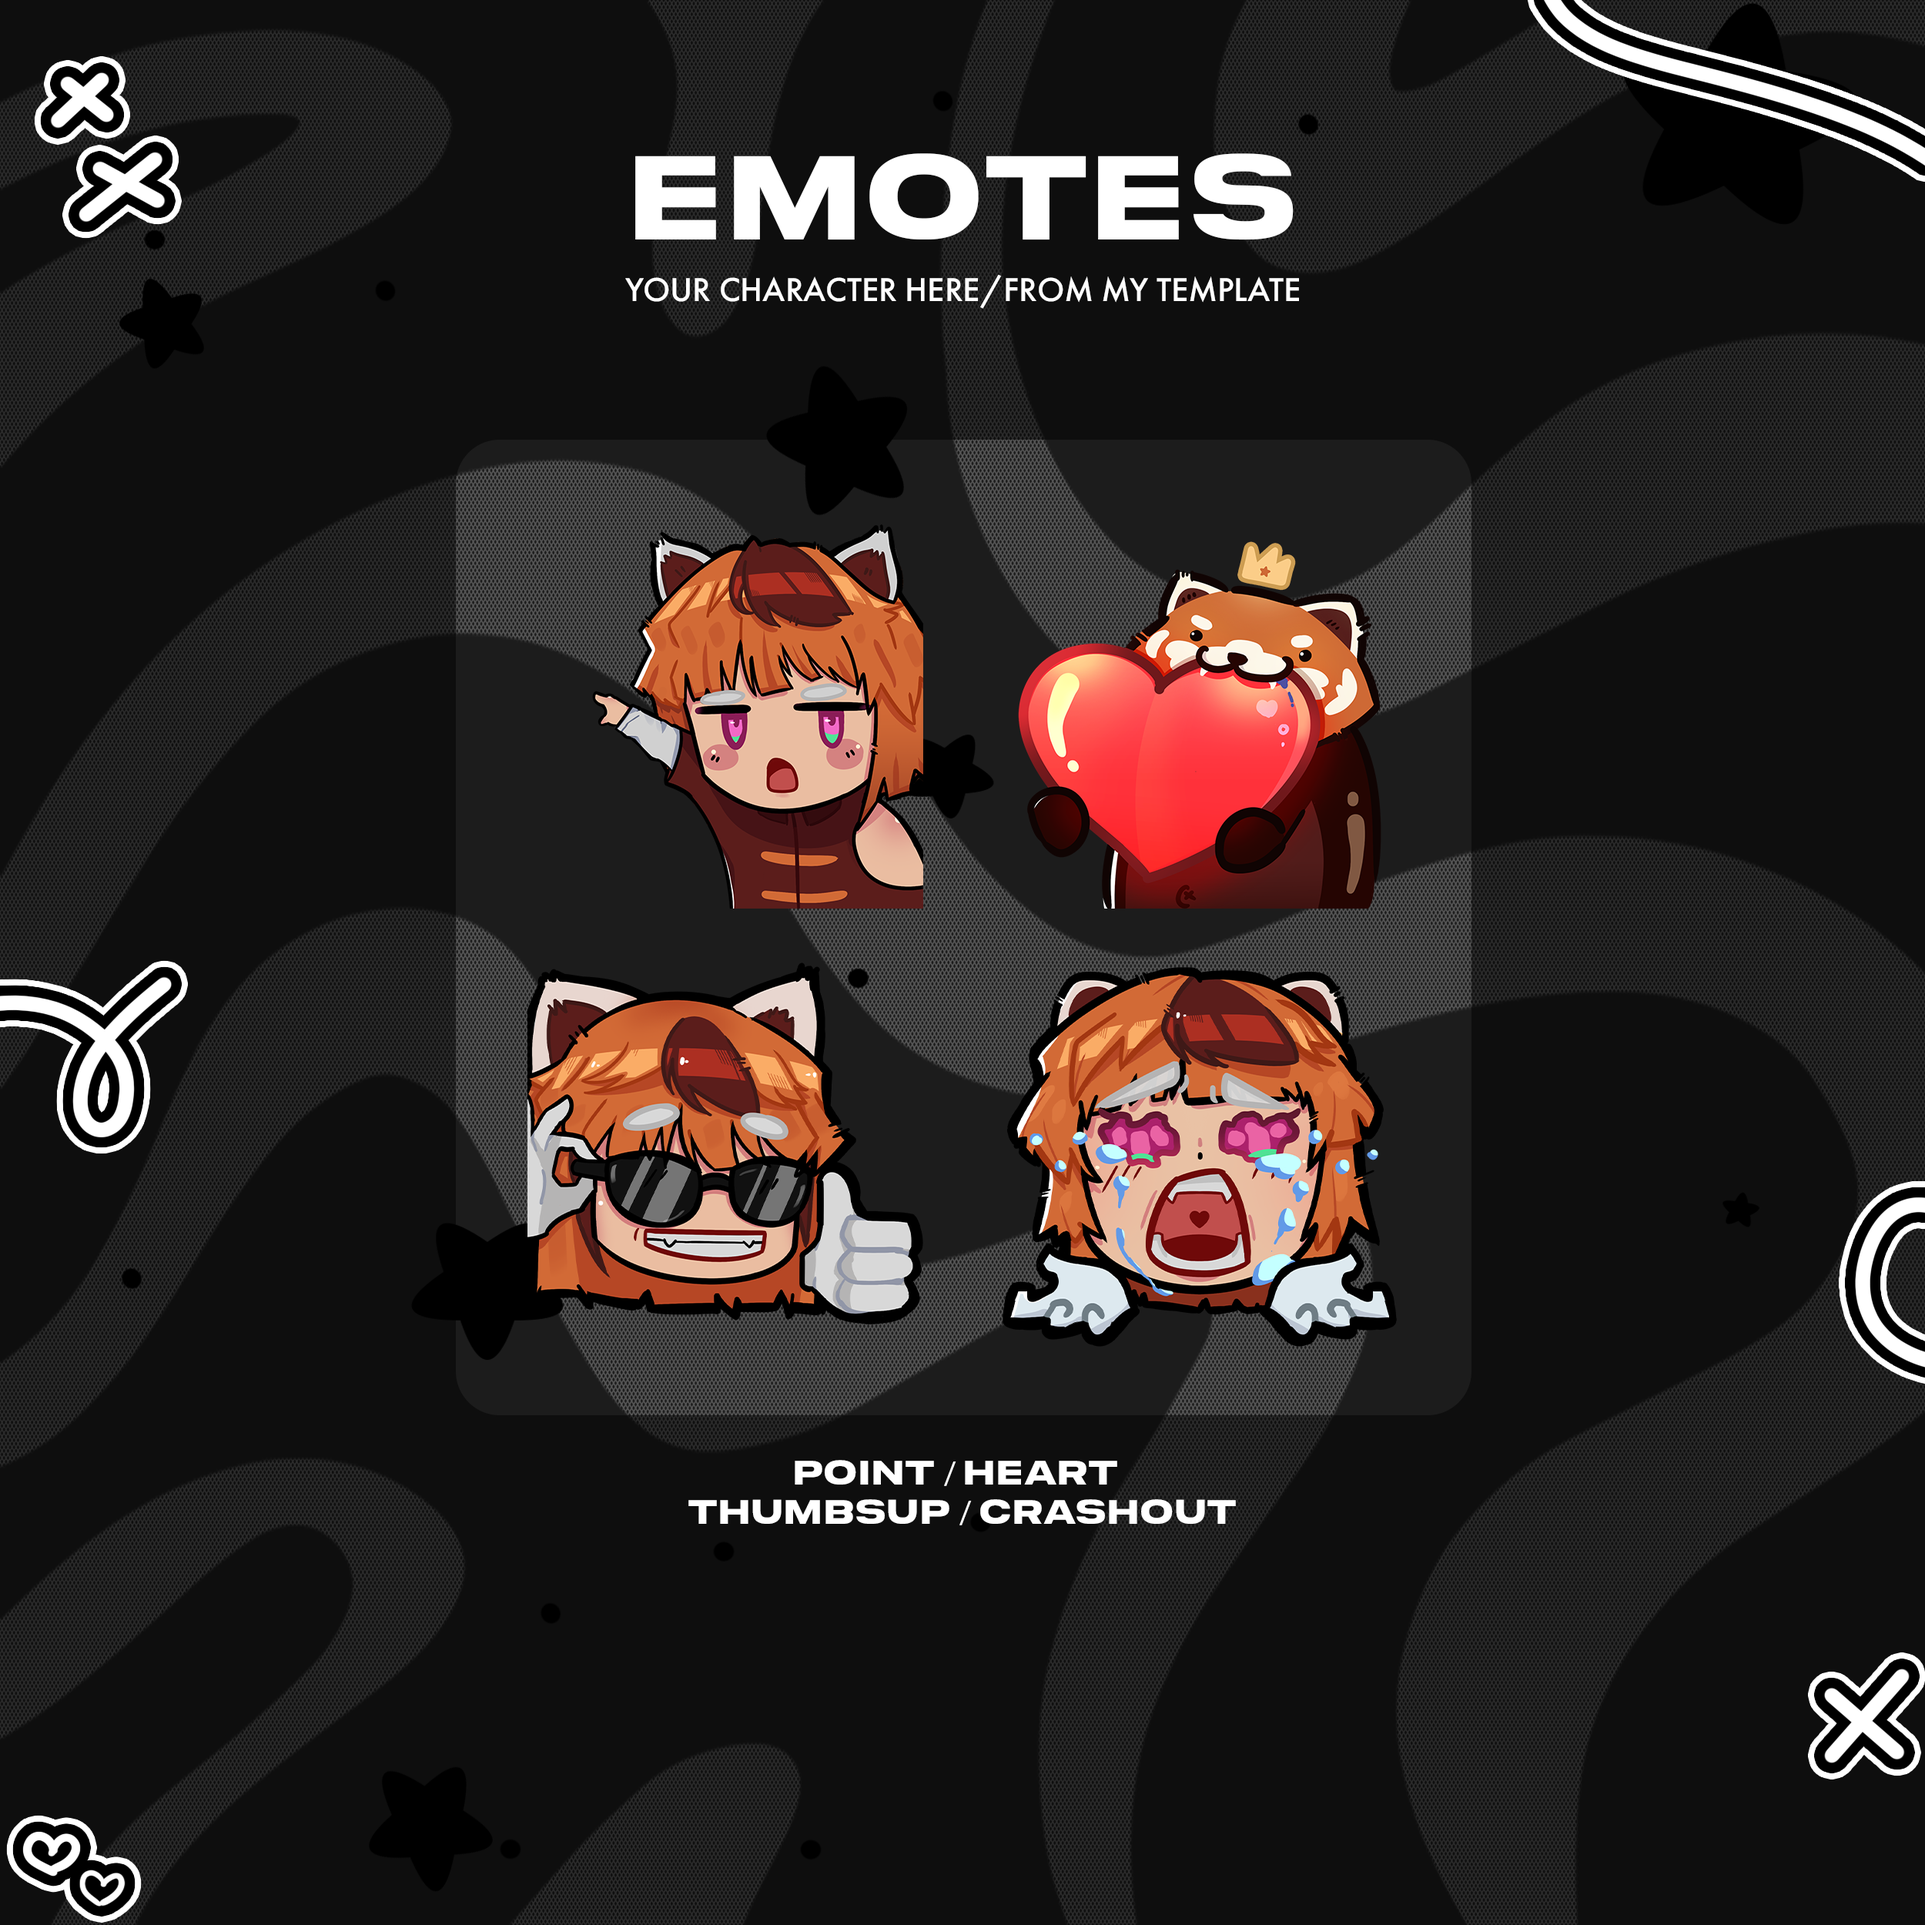
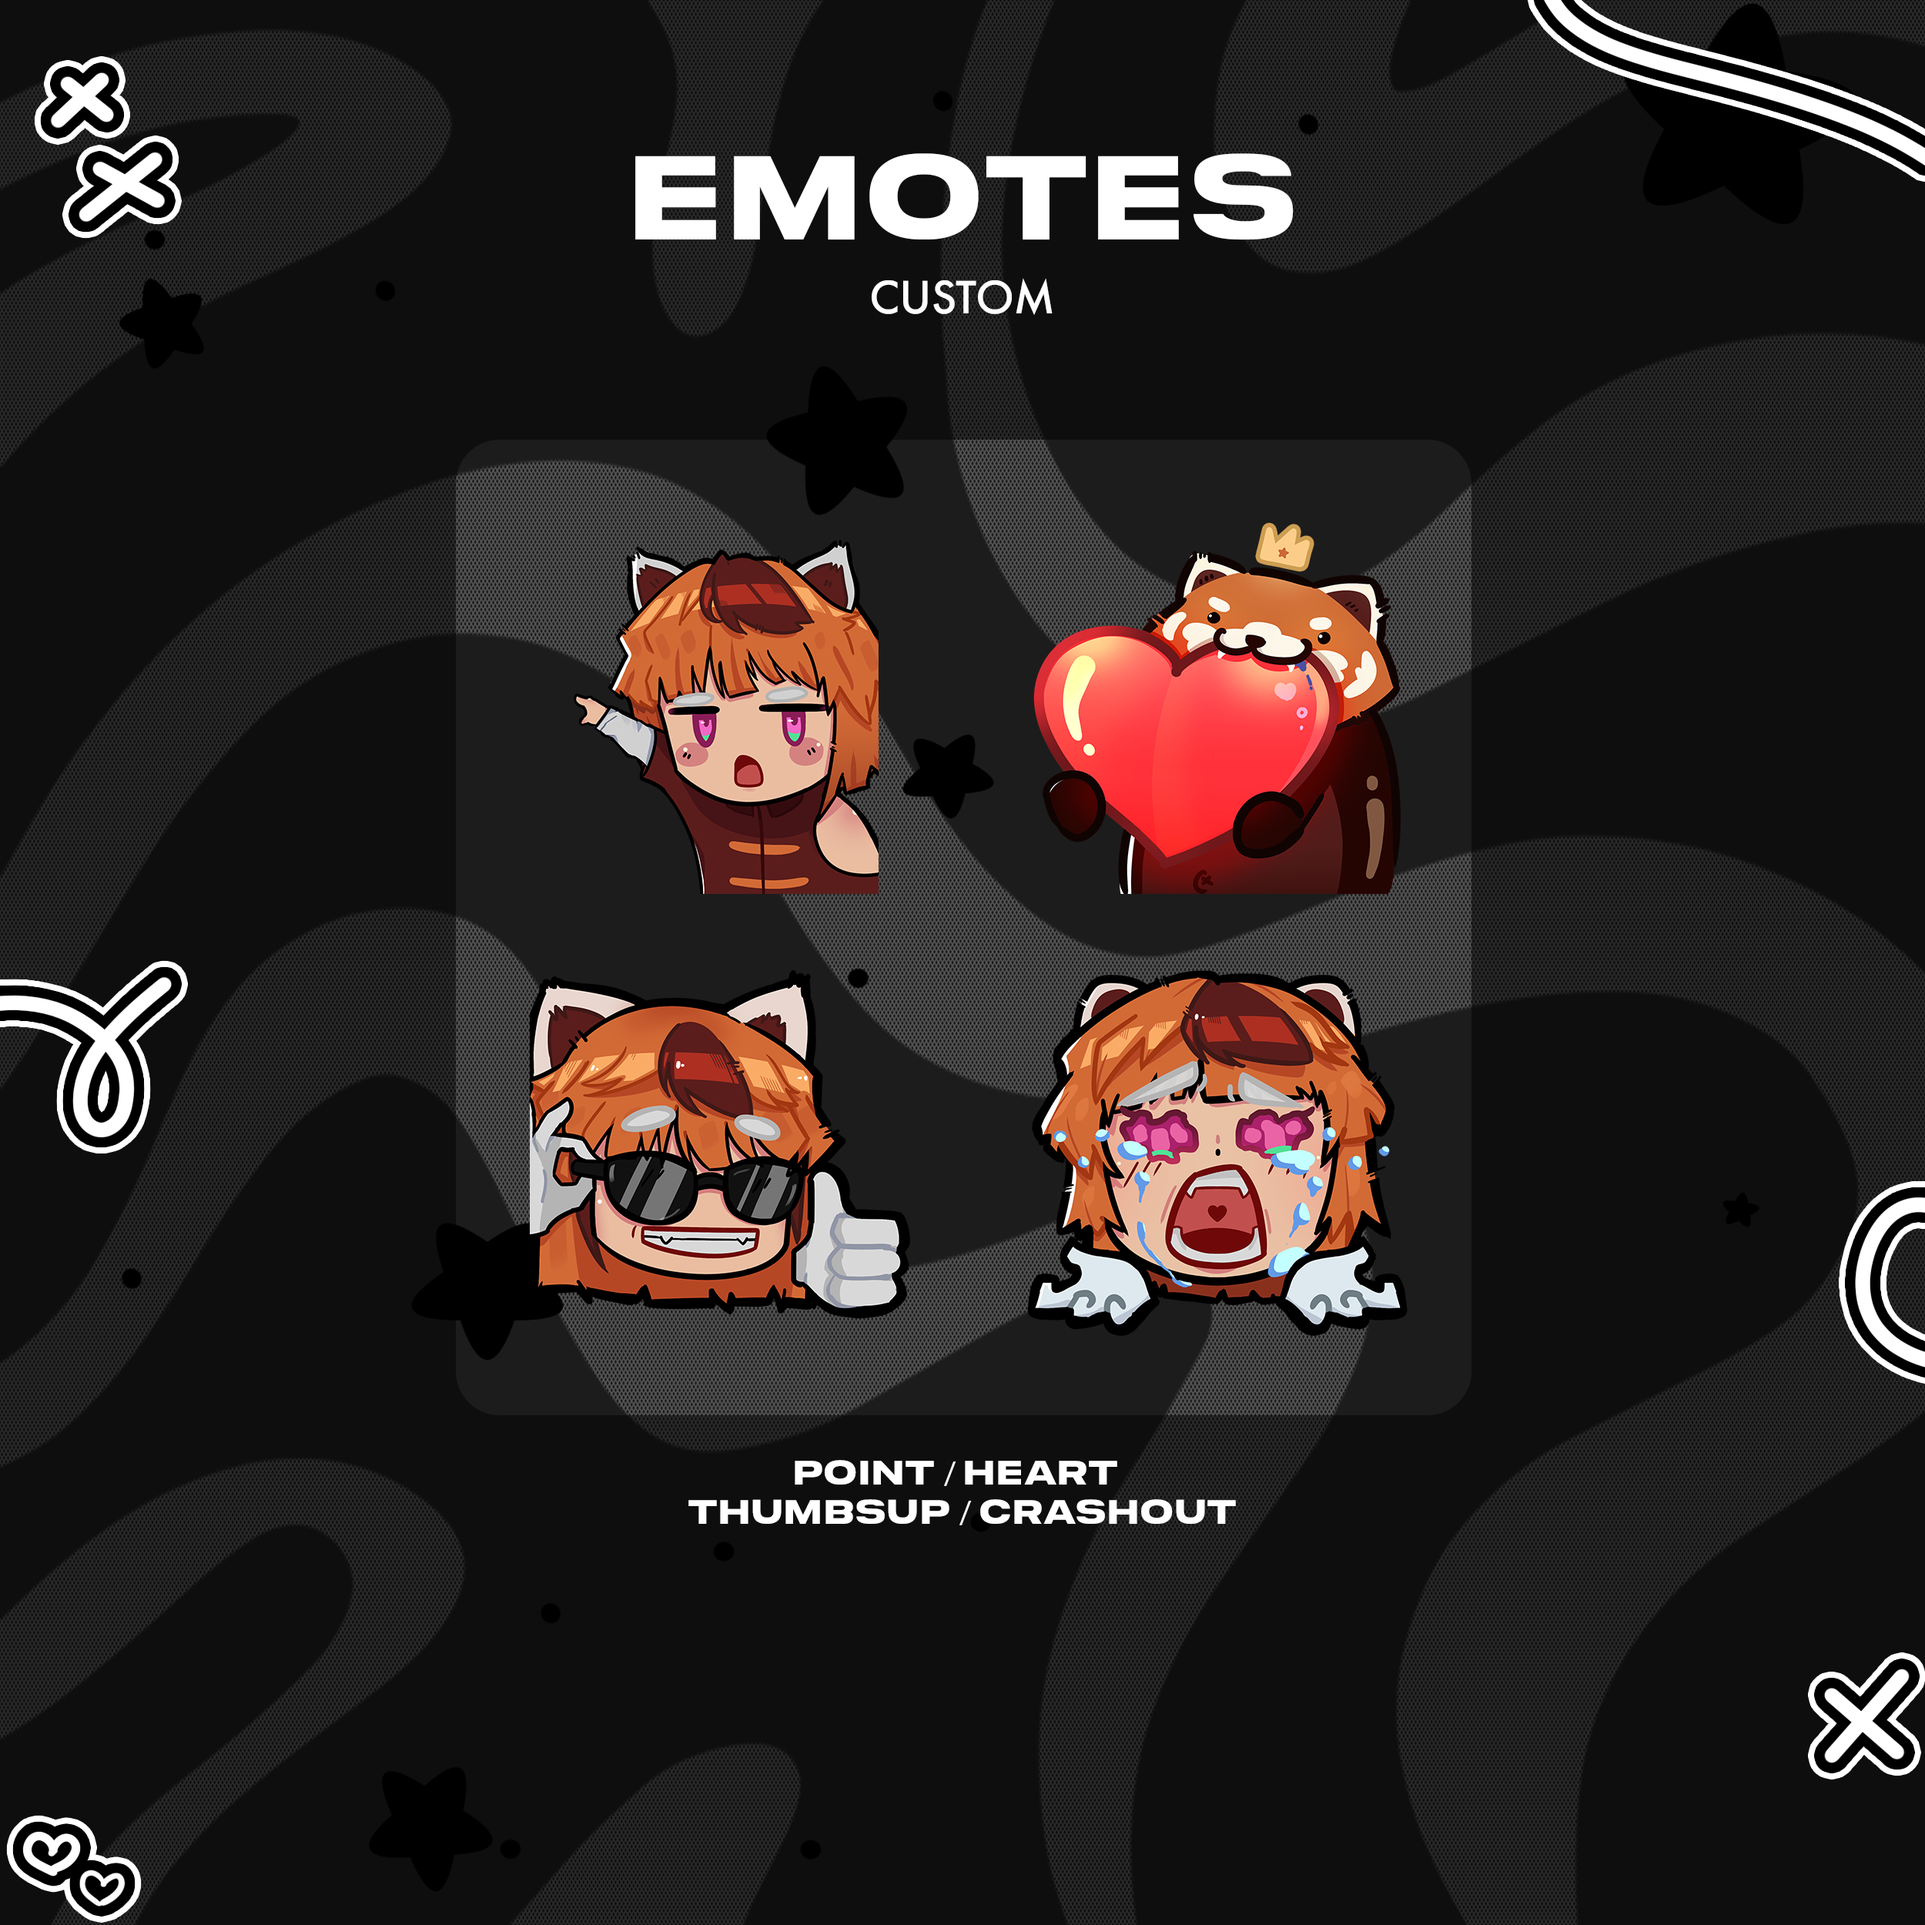
Updated img, terms, services

Changed region(s): [[0.2496, 0.2496, 0.7488, 0.7176], [0.3432, 0.1248, 0.6864, 0.1872]]

diff --git a/src/components/Terms.jsx b/src/components/Terms.jsx
@@ -23,7 +23,8 @@ export default function Terms() {
         <Section title="General" />
         <ul className="list-disc text-xl pl-8 space-y-1 text-accent w-full">
           <li>
-            Do <b>not</b> use my work for any AI-related modification/usage.
+            Do <b>not</b> use the Artist's work for any AI-related
+            modification/usage.
           </li>
 
           <li>
@@ -31,38 +32,60 @@ export default function Terms() {
           </li>
 
           <li>
-            Clients are not allowed to edit/modify/redistribute my work without
-            prior discussion.
+            The Client is not permitted to edit/modify/redistribute the Artist's
+            work without prior discussion.
           </li>
+
+          <li>Feel free to discuss any requests for NDAs about the work.</li>
 
           <li>
-            Feel free to discuss with me any requests for NDAs about the work.
-            No fees.
+            The Artist reserves the right to decline a commission request.
           </li>
 
-          <li>I reserve the right to decline a commission request.</li>
-
-          <li>Client will receive PNG + SVG as per request.</li>
+          <li>The Client will receive PNG + SVG as per request.</li>
         </ul>
         <Section title="Payments & Refunds" />
         <ul className="list-disc text-xl pl-8 space-y-1 text-accent w-full">
           <li>
             {" "}
-            I accept payments through{" "}
+            The Artist accepts payments through{" "}
             <b>
               Paypal (international) and local modes of payment (Philippines -
               GCash, Maya, etc.){" "}
             </b>{" "}
           </li>
+          <li>
+            {" "}
+            For local transactions, final price may not reflect current USD
+            conversion. Please let the Artist know if paying locally
+            beforehand.{" "}
+          </li>
           <li> USD / PHP only. </li>
-          <li> Payment plans can be discussed with me! just lmk </li>
+          <li>
+            {" "}
+            Payment plans(i.e. installments/downpayments) can be discussed with
+            the Artist.{" "}
+          </li>
           <li>
             {" "}
             Generally, a 30-50% deposit will be made only after initial
             sketch.{" "}
           </li>
-          <li> I will only be sending the final high quality output.</li>
-
+          <li>
+            {" "}
+            The Artist will only be sending the final high quality output after
+            full payment.
+          </li>
+          <li>
+            No refunds are possible after work begins unless initiated by the
+            Artist.
+          </li>
+          <li>
+            If the Artist cannot complete work or there are delays for
+            unforeseen reasons, the Client may be eligible for a full refund. If
+            work done up to this point is accepted and used by the Client, the
+            Artist will provide a partial refund only.
+          </li>
           <li>
             {" "}
             Depending on project size, refunds may not be processed(i.e. large
@@ -73,7 +96,7 @@ export default function Terms() {
         <Section title="Process & Revisions" />
         <ul className="list-disc text-xl pl-8 space-y-1 text-accent w-full">
           {" "}
-          <li> Client is entitled to 2 major revisions for free. </li>
+          <li> The Client is entitled to 2 major revisions for free. </li>
           <li>
             {" "}
             An additional $5 per major revision will be charged after the free
@@ -81,18 +104,18 @@ export default function Terms() {
           </li>
           <li>
             {" "}
-            Minor revisions don't count. (i.e. my mistakes, turning off certain
-            layers){" "}
+            Minor revisions don't count. (i.e. the Artist's mistakes, turning
+            off certain layers){" "}
           </li>
           <li>
             {" "}
             Moodboards/reference sheets are greatly appreciated for efficiency.
             With that:{" "}
           </li>
-          <li> I will strictly be following references. </li>
+          <li> The Artist will strictly be following references. </li>
           <li>
             {" "}
-            If the client has a specific paid font in mind, they will cover font
+            If the Client has a specific paid font in mind, they will cover font
             purchase costs.{" "}
           </li>
         </ul>
@@ -101,7 +124,11 @@ export default function Terms() {
         <ul className="list-disc text-xl pl-8 space-y-1 text-accent w-full">
           <li> Works are for personal-use only (i.e, streaming)</li>
           <li> Commercial use must be stated otherwise. </li>
-          <li> I reserve the right to use commissions for my portfolio. </li>
+          <li>
+            {" "}
+            The Artist reserves the right to use commissions for their
+            portfolio.{" "}
+          </li>
         </ul>
 
         <Section title="Turnaround Time" />
@@ -114,7 +141,7 @@ export default function Terms() {
           <li>
             {" "}
             Bigger projects may have a different timeframe to be considered as a
-            rush order. Please let me know!{" "}
+            rush order. Please let The Artist know.{" "}
           </li>
         </ul>
       </motion.div>

diff --git a/src/components/Contact.jsx b/src/components/Contact.jsx
@@ -22,11 +22,17 @@ export default function Contact() {
       >
         {
           <p className="text-center text-neutral mb-8">
-            Commission Status : <u>OPEN</u>
+            Commission Status : <u>OPEN</u> | Reach me thru my email:{" "}
+            <a
+              className="underline hover:text-primary"
+              href="mailto:jemmiechuu@gmail.com?subject=Commission Inquiry"
+            >
+              jemmiechuu@gmail.com
+            </a>
           </p>
         }
 
-        <div className="grid gap-6 sm:grid-cols-3">
+        <div className="grid gap-3 sm:grid-cols-4">
           <ContactCard
             label="Discord"
             value="@jemichuu"
@@ -44,6 +50,11 @@ export default function Contact() {
             label="X / Twitter"
             value="@jemmyleppy"
             link="https://x.com/jemmyleppy"
+          />
+          <ContactCard
+            label="VGen"
+            value="@neppyleppy"
+            link="https://vgen.co/neppyleppy"
           />
         </div>
       </motion.div>

diff --git a/src/components/Services.jsx b/src/components/Services.jsx
@@ -105,9 +105,11 @@ const services = [
     columns: 3,
     pricing: [
       { label: "YCH", static: "$20", animated: "$30" },
+      { label: "YCH - Bundle of 3", static: "$50", animated: "$80" },
+      { label: "YCH - Bundle of 6", static: "$110", animated: "$170" },
       { label: "Custom", static: "$25", animated: "$35" },
-      { label: "Bundle of 3", static: "$50", animated: "$80" },
-      { label: "Bundle of 6", static: "$110", animated: "$170" },
+      { label: "Custom - Bundle of 3", static: "$65", animated: "$95" },
+      { label: "Custom - Bundle of 6", static: "$140", animated: "$200" },
     ],
     images: emotes,
   },

diff --git a/src/App.jsx b/src/App.jsx
@@ -4,7 +4,6 @@ import viteLogo from "/vite.svg";
 import "./App.css";
 import Navbar from "./components/NavBar";
 import Hero from "./components/Hero";
-import Carousel from "./components/Carousel";
 import Services from "./components/Services";
 import Contact from "./components/Contact";
 import Terms from "./components/Terms";
